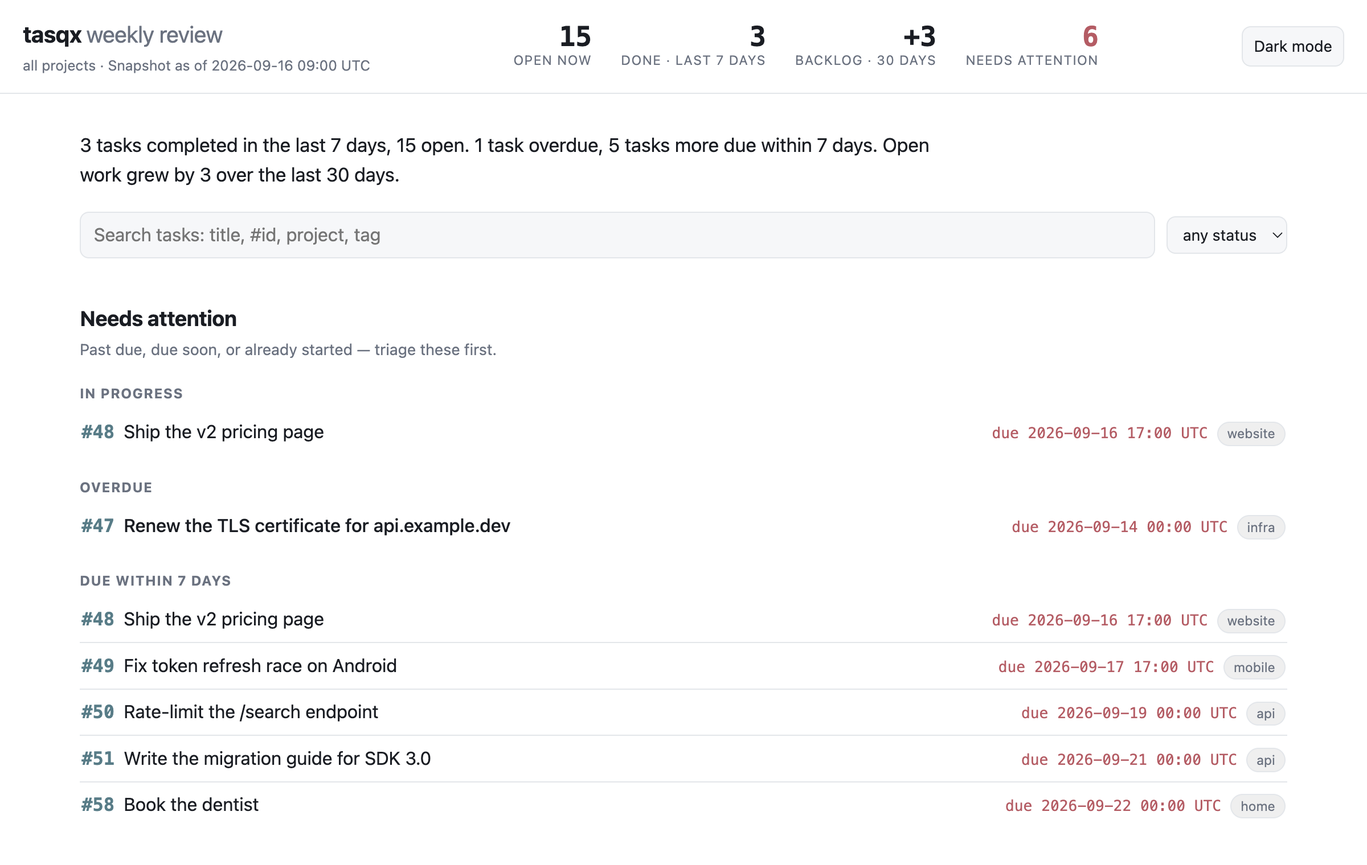
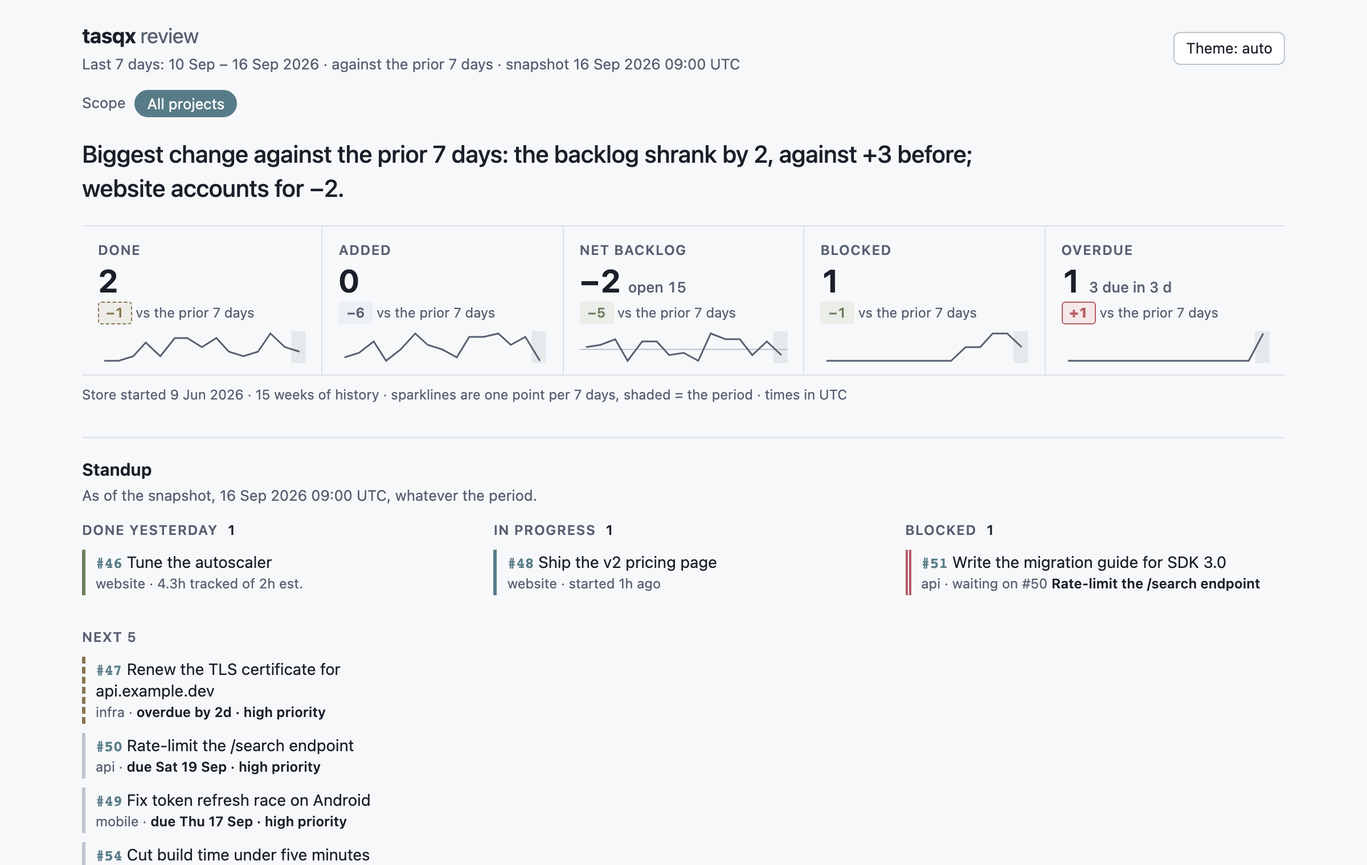
docs(report): record D212 and describe the period review page (#1123)
DESIGN.md §8 still described the attention-first page with :target
panels and a light-only default, and the wiki, guide and README showed the
old sections. D212 records the ruling (amend pointer on D116), §8/§11 are
walked, and docs/img/report.png is re-rendered from the demo store.

diff --git a/DESIGN.md b/DESIGN.md
@@ -977,16 +977,16 @@ All charts are pure clients of `report.summary` and `task.list` — the core ret
 
 ### Self-contained HTML reports
 
-`tasqx report weekly --html --out review.html` runs a series of `report.summary` / `task.list` calls over stdio, then templates a **single self-contained file** — inlined CSS, inlined web-safe font stack, charts as inline SVG, zero external requests. Mailable, committable, air-gapped-friendly.
+`tasqx report --html --out review.html` runs `store.export`, `report.outcomes` and `task.list` in-process (D73), then templates a **single self-contained file** — inlined CSS, inlined web-safe font stack, charts as inline SVG, zero external requests. Mailable, committable, air-gapped-friendly.
 
 | Aspect | Choice |
 |---|---|
 | **Typography** | System UI stack for prose (`ui-sans-serif, -apple-system, Segoe UI…`); a mono stack (`ui-monospace, "Cascadia Code"…`) for ids/durations. Generous line-height, one accent weight. |
-| **Layout** | One centered column, 1100px wide, for prose, lists, charts and the table alike (**D116**; the earlier 72ch prose measure with a breakout for the table and charts, #235/3, left every heading hanging off its own figure). Sticky summary header with four tiles — open now, done · last 7 days, backlog · 30 days, needs attention — each naming its window, plus the snapshot instant; unpinned on a two-column grid under 600px. Sections in decision order: assessment, needs attention, now actionable, then the evidence. |
-| **Charts** | The §8 burndown/heatmap/throughput re-rendered as crisp inline **SVG** (same numbers, and the same roles the terminal charts paint each mark with: `accent`, `timer.active`; never `urgency.ramp`, which is the urgency scale alone, **D119**). |
-| **Dark/light** | Both on every page, over CSS custom properties; the report palette is generated from the *active tasqx theme*, so terminal and HTML match. Light is the default whatever the OS prefers; dark is a switch in the header, the choice kept per browser (**D116**). |
-| **Data shown** | An assessment line; needs attention (in progress, overdue, due within 7 days); now actionable; weekly throughput and the open backlog, each captioned with its start, end and change; token spend as four buckets; per-project open/total, est vs. tracked, overdue and the four buckets; completed this period; top tags. `—` is unmeasured or untracked, `0` a measured zero. |
-| **Interaction** | One inline script (**D48b**, **D116**): a search box, a status select and clickable project/tag chips filter the task lists in place; the project table sorts by any column; every task id opens a `:target` detail panel with fields, dependencies and its newest annotations, bounded by `PANEL_BUDGET`. The script flips attributes and moves focus; the page renders fully without it. |
+| **Layout** | One centered column, 1120px wide (**D116**). A header naming the period, its comparison and the snapshot; then a lede and a band of five figures, the standup, the project grid, the net-flow chart, outcomes and search (**D212**). |
+| **Charts** | One net-flow chart per 7-day bin since the store started, with the open backlog in a lane under it, and a sparkline per band figure — inline **SVG**, drawn at two widths so its text is legible on a phone (**D212**); never `urgency.ramp`, which is the urgency scale alone (**D119**). |
+| **Dark/light** | Both on every page, over CSS custom properties; the report palette is generated from the *active tasqx theme*, so terminal and HTML match. Light by default, dark when the OS prefers it, and a header switch overrides either, kept per browser (**D212**, reversing D116's light-only default). |
+| **Data shown** | A period (7 days ending today, or `--since`/`--until`) against the one before: done, added, net backlog, blocked, overdue; a standup; per-project open, done and Δ, tracked ÷ estimate, tokens per completion as its largest bucket, overdue; the engine's outcomes; every task in scope in a search index. Annotation bodies only with `--with-notes` (**D212**). `—` is unmeasured or untracked, `0` a measured zero. |
+| **Interaction** | One inline script (**D48b**, **D212**): a project row shows that project's pre-rendered blocks in every section; a search covers every task in scope; a task id opens an overlay with its facts and dependencies by title. The script flips attributes, searches and moves focus; it never aggregates, and the page reads without it. |
 
 **Generation flow (honest about the API):**
 
@@ -1174,7 +1174,7 @@ These are **deferred, not skipped**. Each was specified, has a ruling in §12 or
 | **Core** | API v1 declared **stable**; the conformance suite (`crates/tasqx-core/tests/conformance.rs`) is the contract of record — the envelope, the error codes and every method's response shape, with its method floor derived from `dispatch::PARAMS` rather than listed. What it freezes is the **JSON API's shape**; what it does *not* freeze is the MCP **tool schema** — tool names, descriptions and input schemas stay free to move, and `tests/mcp.rs` covers them. The tool *results* are not exempt: `conformance.rs` drives the live `tools/list`, maps each tool to its method and asserts that same frozen result shape, so renaming a response field reddens the MCP half too. Read D56's "excludes MCP" as being about the schema, not the answers. Daemon + socket/named-pipe transport + `event` notification stream. Recurrence engine (RRULE-subset, incremental spawning), urgency model, optimistic concurrency (`expected_rev`), dependency-cycle detection. Single static binary for Windows/Linux/macOS. |
 | **CLI** | `pick`, `agenda`, `undo`, `next`, `why`, `tag`/`untag`, `archive`, native charts, shell completions, `brief`, the one read an agent makes before starting work (**D136**), and `report --outcomes`, the second method under the `report` verb (**D137**) — and the onboarding that makes the last of those reachable without reading the README: one stderr note, said once, naming `tasqx completions --install` (**D57**). Plus `dashboard` (`dash`), and with it the conditional meaning of a bare `tasqx`: the screen when a human is watching, the working-set table everywhere else (**D58**). And `tasqx about`, the credits screen: who made it, two links, the build this binary was made from and the store it would open — CLI-only, with no API method (**D127**). And `show --card`/`brief --card`, the fixed-width box-drawn document rendering of one task, Unicode borders regardless of terminal capability and `--ascii` for the fallback (**D146**). And `tasqx setup`, which registers the MCP server with Claude Code and installs the skills this binary carries, from a checklist screen or `--yes` (**D159**). |
 | **Distribution** | Prebuilt archives for four targets on a tag, plus a `completions/` directory inside each one and a generated Homebrew formula that switches completion on at install time (**D57**, `docs/maintainers/homebrew-tap.md`). The tap and the Scoop bucket exist (`dimitritholen/homebrew-tasqx`, `dimitritholen/scoop-tasqx`), each filled per release by its generator (`scripts/brew-formula.sh`, `scripts/scoop-manifest.sh`) and merged only after that repo's own CI has installed the result for real; the README leads with them, and a package manager the reader already has outranks the script (**D77**). On top of those archives, `install.sh` and `install.ps1` are the **universal** install route (**D61**, narrowed by D77): a one-liner served raw from `raw.githubusercontent.com` that resolves one host triple, verifies the published `.sha256` and unpacks into a per-user directory, with re-running it as the update path — which is not the self-update D10 forbids, because the binary still never writes to itself. The archives are **not signed**: D10 required notarization and Authenticode, D61 narrows that to deferred, and the consequence ships with the route — on macOS it bypasses Gatekeeper rather than passing it, on Windows it is what SmartScreen is built to interrupt. Signing is scheduled work, not a decided absence. Each GitHub release leads with its version's `CHANGELOG.md` section, ahead of the generated commit list (**D130**). |
-| **Presentation** | Cascading theme system + built-ins; burndown/heatmap/throughput; self-contained HTML report, in decision order and with its own drill-down on one inline script (**D116**; D48 slices 4 and 6 — the theme-derived chart palette and the token API delta — remain open). The shared `list`/`agenda` table reads as one screen rather than a grid of equal weights (**D117**): a state rail at the left edge, priority folded into the urgency cell, calendar dates, one rule, and a summary line in place of a count. Its urgency gauge and ramp colour read one absolute scale in three bands, the same on `list`, `agenda` and the dashboard (**D119**). Every table is fitted to the terminal by the same `columns::fit` — `list`, `agenda`, `projects`, `config list`, `report`, `memory list`, `theme list`, `theme show`, and the head line of each `memory search` record — and a number never gives way to make a row fit (**D120**); after a drop the survivors get the freed cells back (**D125**). `memory list` on a terminal is a browser with a live preview and a search, and a one-line-per-doc table everywhere else (**D121**). `projects`, `report`, `theme list` and `theme show` read the same way (#346, under D117 and D120), and `memory search` prints one two-line record per hit whose handle opens it, the id for a doc and the task for an annotation (**D125**). `show`, `add`'s echo, `next` and `why` spell dates as calendar days, say each fact once, and explain themselves (**D122**). `tasqx about` credits its author and states this build, the store it would open and that its clock is UTC (**D132**), in labelled rows whose values — URLs, a path — are copied text and so may overflow rather than be cut (**D127**). Every write echo — `add` and the eighteen verbs after it — is one card in `add`'s voice: the task it named, then what happened and what changed in bold, then `list`'s facts, fitted to the terminal (**D126**). `tasqx manual` is a screen of that style too: a table of contents of two fitted tables with no index numbers, pages that wrap prose to a measure and never cut what a reader copies, and a name that is both a verb and a topic opening both of its pages (**D123**). `pick` is the task browser: `list`'s rows, a `/` search, `show`'s card on Enter and `s` to start (**D124**); closing it without starting anything exits 0, because a browser you close is not a failed run (**D128**). The `tui` module (D26) carries the shared terminal lifecycle; `pick` and the dashboard (**D58**) are screens on it, not second foundations. The dashboard's panels use the semantic theme roles, five of which (**D79**) default into existing roles, so every shipped `themes/*.toml` remains complete for it. |
+| **Presentation** | Cascading theme system + built-ins; burndown/heatmap/throughput; self-contained HTML report, leading with a period's change and a standup, scoped per project on one inline script (**D116**, **D212**; D48 slices 4 and 6 — the theme-derived chart palette and the token API delta — remain open). The shared `list`/`agenda` table reads as one screen rather than a grid of equal weights (**D117**): a state rail at the left edge, priority folded into the urgency cell, calendar dates, one rule, and a summary line in place of a count. Its urgency gauge and ramp colour read one absolute scale in three bands, the same on `list`, `agenda` and the dashboard (**D119**). Every table is fitted to the terminal by the same `columns::fit` — `list`, `agenda`, `projects`, `config list`, `report`, `memory list`, `theme list`, `theme show`, and the head line of each `memory search` record — and a number never gives way to make a row fit (**D120**); after a drop the survivors get the freed cells back (**D125**). `memory list` on a terminal is a browser with a live preview and a search, and a one-line-per-doc table everywhere else (**D121**). `projects`, `report`, `theme list` and `theme show` read the same way (#346, under D117 and D120), and `memory search` prints one two-line record per hit whose handle opens it, the id for a doc and the task for an annotation (**D125**). `show`, `add`'s echo, `next` and `why` spell dates as calendar days, say each fact once, and explain themselves (**D122**). `tasqx about` credits its author and states this build, the store it would open and that its clock is UTC (**D132**), in labelled rows whose values — URLs, a path — are copied text and so may overflow rather than be cut (**D127**). Every write echo — `add` and the eighteen verbs after it — is one card in `add`'s voice: the task it named, then what happened and what changed in bold, then `list`'s facts, fitted to the terminal (**D126**). `tasqx manual` is a screen of that style too: a table of contents of two fitted tables with no index numbers, pages that wrap prose to a measure and never cut what a reader copies, and a name that is both a verb and a topic opening both of its pages (**D123**). `pick` is the task browser: `list`'s rows, a `/` search, `show`'s card on Enter and `s` to start (**D124**); closing it without starting anything exits 0, because a browser you close is not a failed run (**D128**). The `tui` module (D26) carries the shared terminal lifecycle; `pick` and the dashboard (**D58**) are screens on it, not second foundations. The dashboard's panels use the semantic theme roles, five of which (**D79**) default into existing roles, so every shipped `themes/*.toml` remains complete for it. |
 | **MCP** | `tasqx mcp serve` with the §7 tools over stdio, scoped read/write per **D7**. Responses are bounded: `task.get` pages its history and drops the duplicate block (D63, D66, D72), still a transport-only bound — and since **D148** that bound holds for EVERY answer rather than being waived by an explicit `annotations_limit`, with a body over `max_body_bytes` cut in the response and marked with its real size and the call that reads it whole. `task.list` pages its rows and reports what it withheld (D70) — that page's DEFAULT now lives in the engine itself (**D110**), reachable by `tasqx api`/the CLI too, not only by this transport; MCP's own default-insertion is what still drives its byte-budget bisection over an oversized page. `task.get`/`task.brief` answer the D146 box card, fenced as a rendered block, when called with `view: "card"`, and since **D151** answer the rendered view ALONE unless `include_json: true` asks for the machine block beside it — the byte budget holds for that view-only answer too. `tasqx_complete_task` takes the same `view: "card"` and answers the closing card of the task as completed ahead of its unchanged JSON (**D153**), so the re-read that used to follow every completion is gone. Memory reads are cut to what an agent reads — the brief's five-hit page, `rank` and the list's preview both opt-in (**D154**). The roster itself is bounded too: since **D155** a tool description carries the contract and the D-number that names its ruling, never the reasoning behind it, with 800 bytes per description and a guard holding the whole `tools/list` under 33.5 KB (31 KB until D165 and D167 each added a tool) — the cost a client that does not defer tool schemas pays on every prompt. |
 | **Notifications** | ✅ Daemon-heap path (§9a), `Notifier` + log backend always, OS backend behind `notify-os`. ⏳ OS-scheduler (no-daemon) path across all three OSes — deferred, §9b. |
 
@@ -2258,6 +2258,8 @@ Both new methods join `dispatch::PARAMS`, `core.capabilities` (derived from it, 
 **Why:** all five were review findings against the shipped D41 surface, not policy reversals — the memory subsystem could be written to and searched, but not browsed, corrected, scoped, or trusted to say what it left out, and a single AND-of-literal-terms query lost to any inflection of the word it needed. They land as one entry because they share the same migration (the `docs` table gains `project` and `rev` in the same `migrate_memory` pass that rebuilds the FTS5 index for #128) and because `memory.list`/`memory.search`'s `project` filter had to be designed together to stay consistent. All five are additive: a pre-#134 doc reads back as unscoped/rev-0, and `store.export`/`store.import` carry `project`/`_rev` so the D12 byte-identical round trip still holds.
 
 ### D116 — The report page opens with what needs attention and carries its own drill-down on one inline script (D48 slices 3 and 5; tasks #304–#308)
+
+> **Amended by D212:** the page now leads with a period's change, a standup and a project grid that scopes it; the `:target` panels, `PANEL_BUDGET`, the tags section and the light-whatever-the-OS default are gone. (b) the structural guard and (c)'s one script stand.
 
 **Decision:** three things land together on `report --html`, closing the two D48 slices that gated anything interactive.
 
@@ -4667,3 +4669,28 @@ Why: `annotate <ref> -` stored a literal `-` and exited 0, and a pipe with no bo
 **Why.** One writer per transport keeps the MCP server usable with no daemon at all, which is how most agents run it; routing through a daemon would make an optional process a dependency of every agent session. A host that exports `$TASQX_SOCK` for other tools must still be able to launch `mcp serve`, so the variable is reported, never refused.
 
 **Live updates need nothing more.** #1122 was opened on the belief that an MCP write stays invisible to `tasqx watch` and the desktop app until they re-read. Measured on 2026-10-07 against a scratch daemon with `watch` open: a `--no-daemon` CLI add and a `tasqx_add_task` through a separate `mcp serve` process on the same store each appeared in `watch` within 500 ms. The daemon follows the `events` rowid on a 400 ms poll (`POLL_MS`, `daemon.rs`; §2, D73) and broadcasts `task.changed` for any row it did not write itself, and `subscriber_receives_push_from_external_write` (`crates/tasqx-core/tests/daemon.rs`) pins that. So no daemon-side change is needed and no `data_version` polling is planned; a write that leaves no `events` row is the only kind the poll cannot see.
+
+### D212 — The report page leads with what changed in a period, then a standup, a grid that scopes the page, net flow, outcomes and a search over every task; annotation bodies stay out of the file by default (task #1123, from the #1105 audit and the #1106 prototype; supersedes D116's sections, panels and light-only default)
+
+**Decision.** `report --html` is a review of a **period**: the 7 days ending today, or the span `--since`/`--until` name (the flags' D97 meaning on the terminal table is unchanged; with `--html` they are the page's window, and `until` is exclusive). Every delta is against the equally long span before it. The page runs, in this order:
+
+- **A band of five numbers** — done, added, net backlog change (with the open count), blocked and overdue (with how many fall due within 3 days) — each with its Δ, a sparkline of one point per 7 days with the period's bins shaded, and above it **a one-sentence lede** naming the biggest change, and in the whole-store view the project that drove it. The store's start date is stated under it.
+- **A standup**, read at the snapshot rather than the period: done yesterday (tracked against estimate, an unproven completion flagged), in progress with its age (stale past 5 days), blocked with the blocker's title and the chain's length (the engine's `@blocked` set), and the next five from the engine's `@working` set with the reasons each is next (overdue, due soon, priority, how many it unblocks, reopened).
+- **A per-project grid** — open, done in the period with its Δ, median tracked ÷ estimate, tokens per measured completion as its largest bucket (D48a), overdue — with a totals row. It replaces the old by-project, tokens and tags sections.
+- **A net-flow chart**: added above and done below a zero line per 7-day bin, the net change as a line, the open backlog in a lane underneath. Bins are anchored on the period's last day and start no earlier than the store does, at most 26. It is drawn twice, at 1080 and at 360 user units with the newest 13 bins, and CSS picks one by width, so its text is legible on a phone.
+- **Outcomes**: a histogram of tracked ÷ estimate over the period's completions with the median, and reopened, cancelled and unproven — the counts `report.outcomes` returns for the same window and filter, so the page and `report --outcomes --since … --until …` agree.
+- **A search over every task in scope**, from a compact index (one JSON array per task, as text in a hidden element), with an overlay that shows the task's facts and its dependencies by title. `PANEL_BUDGET` and the 160 `:target` panels are gone.
+
+Every number is computed in Rust and rendered into the markup once for the whole report and once per project, each block marked `data-sc`; the project blocks start `hidden`. Clicking a grid row makes the script show that project's blocks and scope the search — it flips attributes and never aggregates, so D116's ruling against a second roll-up in the browser stands. Without the script the whole-store band, standup, grid, chart and outcomes read in full; search is the one part that needs it.
+
+**Privacy.** Annotation bodies are **not** in the file by default; the overlay says how many a task has and names `tasqx show N`. `--with-notes` embeds the newest three per task, each cut at 2000 characters, behind a "Show annotation bodies" toggle. A filter that leaves one project in the export makes a **single-project page**: no other project's scope, no totals row, and a dependency the export dropped shows as "a task outside this report", never by title. Hiding projects in the browser is not offered, because data hidden by a script is still in the file.
+
+**Flags.** `--since`/`--until` set the period; `--all` puts cancelled tasks in the search index (the outcomes count cancellations either way, and the band, standup, grid and chart keep D24's exclusion); `--outcomes` is accepted and changes nothing, since the page always carries the section — the task's ruling was that it be honoured, and refusing a flag that names what the page already shows would read as the page lacking it; `--metrics` is **refused** with `--html`, because the page has no columns to pick and ignoring it was F1105-9; `--with-notes` requires `--html`. A `status` or `priority` axis is refused with `--html`: a project row is what scopes the page.
+
+**Theme.** The theme's `accent`, `warn`, `danger` and `timer.active` map onto the page's tokens, moved just far enough to clear 4.5:1 on each ground (#163's rule, now checked on both schemes). **Light is the default and dark follows `prefers-color-scheme`**; the header's switch cycles auto, light and dark and is kept per browser. This reverses D116's light-whatever-the-OS rule, which the user's approval of the prototype settled. Both dark blocks are screen-only, so print is always light, and print hides search, sparklines and the unproven list to stay within three pages. Under `mono`, where the roles collapse to grey, judgement also has a shape: a worsening Δ has a solid border and heavier weight, a warning a dashed one, a blocked standup row a double rule, and the histogram's over-estimate bar is hatched.
+
+**Why.** The #1105 audit read the old page as a developer at standup, a lead at a weekly review and someone doing a retro, and found it answered none of their first questions: nothing about change or blockage on the first screen, search over 268 of 1,096 tasks, annotation bodies of client projects embedded in a file meant to be shared, `--since`/`--all`/`--outcomes` refused and `--metrics` silently ignored, 103 printed pages. The prototype (#1106) answered them on synthetic data and the user approved it. What it computed in the browser is computed here in Rust, which is why a project scope costs a pre-rendered copy of each section rather than script.
+
+**Approximations, named.** Blocked and overdue on a past day read today's dependency edges and due dates; a dependency removed or a due date moved since is not replayed. Open-on-a-day is `chart::open_on`, the burndown's own replay, so the page and `tasqx chart burndown` agree.
+
+**Where:** `crates/tasqx-cli/src/html.rs` (`Model`, `Page`, `SCRIPT`), `crates/tasqx-cli/src/chart.rs` (`lifecycle_moves`, `open_on`), `verbs::run_html_report`, `command::Command::Report`.

diff --git a/docs/wiki/Reports-and-Charts.md b/docs/wiki/Reports-and-Charts.md
@@ -27,6 +27,32 @@ requests — it works from a mail attachment, a chat upload, or a USB stick.
 A filter scopes both modes identically, so the page and the terminal table
 always answer the same question.
 
+The page is a review of a period, the 7 days ending today unless you pick
+another:
+
+```console
+tasqx report --html --since 2026-09-01 --until 2026-10-01 --out september.html
+```
+
+| Section | What it answers |
+|---|---|
+| The band | Done, added, net backlog change, blocked and overdue in the period, each against the period before it, with a sparkline per 7 days and a one-line summary of the biggest change |
+| Standup | Done yesterday (tracked against estimate, unproven completions flagged), in progress and for how long, blocked and by which task, the next five and why each is next |
+| Projects | Open, done in the period and its change, median tracked ÷ estimate, tokens per completion and overdue, per project. Click a row and every section shows that project alone |
+| Net flow | Added and done per 7 days since the store started, the net change, and the open backlog under it |
+| Outcomes | How tracked time compared with the estimate, and what was reopened, cancelled or completed unproven — the same counts `report --outcomes` prints |
+| Find a task | A search over every task in scope; a task opens in an overlay with its dependencies by title |
+
+Annotation bodies are not put in the file, because a report is meant to be
+shared and that is where client detail lives. `--with-notes` embeds the
+newest three per task behind a toggle. A filter that names one project
+(`tasqx report project:acme --html`) makes a page about that project alone,
+and a task it depends on elsewhere shows as "a task outside this report".
+
+`--all` adds cancelled tasks to the search. `--metrics` picks terminal
+columns and is refused with `--html`, and the page is always grouped by
+project, so `tasqx report status --html` is refused too.
+
 Cancelled tasks are not counted unless you pass `--all` or your filter names a
 status explicitly — a report about work shouldn't be padded by work you
 decided not to do.

diff --git a/docs/guides/standup-reporting.md b/docs/guides/standup-reporting.md
@@ -38,8 +38,10 @@ tasqx report --html --out review.html
 One self-contained file: inline CSS and SVG, no external requests, both light and
 dark schemes. Open it in a browser, attach it to a mail, drop it in a channel.
 Five built-in themes (`--theme nord`, `gruvbox`, `dracula`, `solarized`, `mono`).
-The header's stat row ends with four token tiles — cache read, cache write,
-input, output — one per bucket, never blended into a single total.
+It opens with what changed in the last 7 days against the 7 before, then a
+standup — done yesterday, in progress, blocked and by what, the next five — so
+it doubles as the notes for the meeting. `--since`/`--until` pick another
+period. Annotation bodies stay out of the file unless you add `--with-notes`.
 
 ## Time tracking honesty
 

diff --git a/README.md b/README.md
@@ -216,7 +216,7 @@ weekly review says what the agent did and what it got right.
 </td>
 <td>
 
-![The HTML weekly review: headline counts, then what needs attention](docs/img/report.png)
+![The HTML weekly review: what changed this week, then a standup](docs/img/report.png)
 
 </td>
 </tr>
